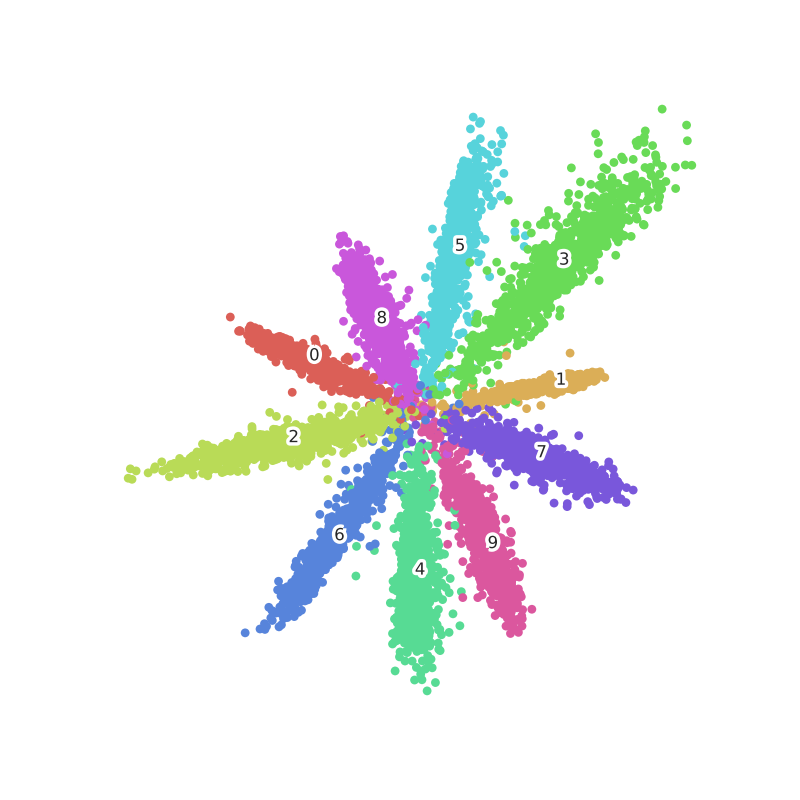
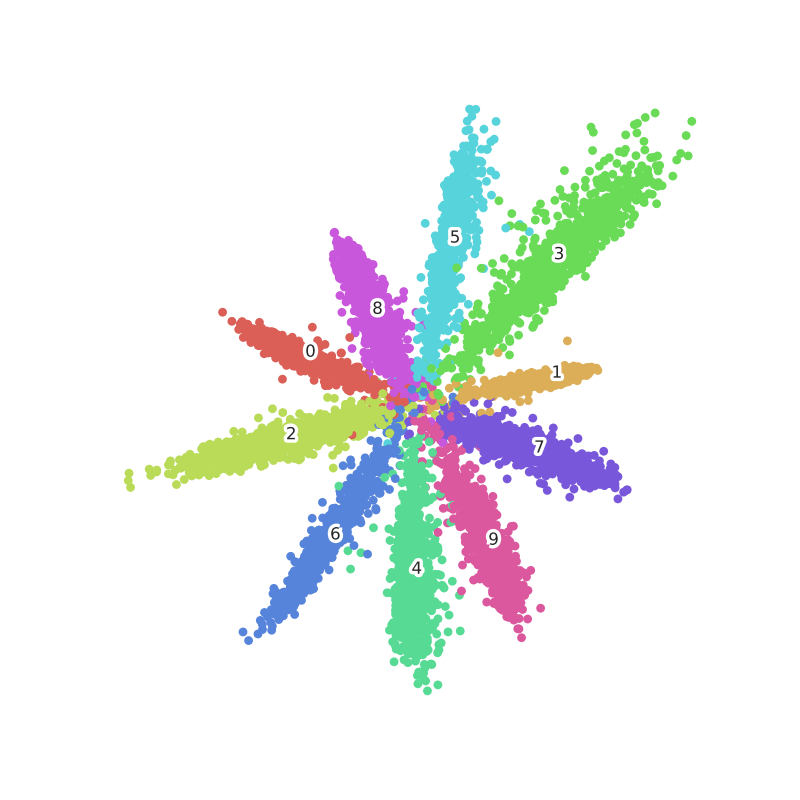
Squashed commit of the following:
commit e763085140482decceb2ecf2ef31b8f215b4f23e
Author: zhangjie <luoyetx@gmail.com>
Date:   Thu Jan 5 22:32:18 2017 +0800

    update README.md

commit 3a027a58bb9198df589f4040a772160b2aab1b1a
Author: zhangjie <luoyetx@gmail.com>
Date:   Thu Jan 5 21:10:08 2017 +0800

    update

    - skip large margin fully connected during test
    - add train.sh
    - update imgs trained by train.sh

commit 0c5b471f20e5b7905e37cbd21253504130c7a8d6
Author: zhangjie <luoyetx@gmail.com>
Date:   Wed Jan 4 20:24:38 2017 +0800

    change `beta` and add `scale` as described in #1

Changed region(s): [[0.25, 0.125, 0.875, 0.875], [0.2812, 0.6875, 0.4062, 0.8125], [0.1562, 0.5625, 0.25, 0.625]]

diff --git a/lsoftmax.py b/lsoftmax.py
@@ -12,9 +12,10 @@ class LSoftmaxOp(mx.operator.CustomOp):
     '''LSoftmax from <Large-Margin Softmax Loss for Convolutional Neural Networks>
     '''
 
-    def __init__(self, margin, beta):
+    def __init__(self, margin, beta, scale):
         self.margin = int(margin)
         self.beta = float(beta)
+        self.scale = float(scale)
         self.c_map = []
         self.k_map = []
         c_m_n = lambda m, n: math.factorial(n) / math.factorial(m) / math.factorial(n-m)
@@ -54,21 +55,22 @@ class LSoftmaxOp(mx.operator.CustomOp):
         label = label.asnumpy()
         # original fully connected
         out = x.dot(w.T)
-        # large margin fully connected
-        n = label.shape[0]
-        w_norm = np.linalg.norm(w, axis=1)
-        x_norm = np.linalg.norm(x, axis=1)
-        for i in range(n):
-            j = yi = int(label[i])
-            f = out[i, yi]
-            cos_t = f / (w_norm[yi] * x_norm[i])
-            # calc k and cos_mt
-            k = self.find_k(cos_t)
-            cos_mt = self.calc_cos_mt(cos_t)
-            # f_i_j = (\beta * f_i_j + fo_i_j) / (1 + \beta)
-            fo_i_j = f
-            f_i_j = (pow(-1, k) * cos_mt - 2*k) * (w_norm[yi] * x_norm[i])
-            out[i, yi] = (self.beta * f_i_j + fo_i_j) / (1 + self.beta)
+        if is_train:
+            # large margin fully connected
+            n = label.shape[0]
+            w_norm = np.linalg.norm(w, axis=1)
+            x_norm = np.linalg.norm(x, axis=1)
+            for i in range(n):
+                j = yi = int(label[i])
+                f = out[i, yi]
+                cos_t = f / (w_norm[yi] * x_norm[i])
+                # calc k and cos_mt
+                k = self.find_k(cos_t)
+                cos_mt = self.calc_cos_mt(cos_t)
+                # f_i_j = (\beta * f_i_j + fo_i_j) / (1 + \beta)
+                fo_i_j = f
+                f_i_j = (pow(-1, k) * cos_mt - 2*k) * (w_norm[yi] * x_norm[i])
+                out[i, yi] = (f_i_j + self.beta * fo_i_j) / (1 + self.beta)
         self.assign(out_data[0], req[0], mx.nd.array(out))
 
     def backward(self, req, out_grad, in_data, out_data, in_grad, aux):
@@ -119,7 +121,7 @@ class LSoftmaxOp(mx.operator.CustomOp):
                                 (margin-2*p)*pow(cos_t[i], margin-2*p-1)*pow(sin2_t[i], p)*dcos_dx)
             df_dx = (pow(-1, k[i]) * cos_mt[i] - 2*k[i]) * w_norm[yi] / x_norm[i] * x[i] + \
                      pow(-1, k[i]) * w_norm[yi] * x_norm[i] * dcosm_dx
-            alpha = self.beta / (1 + self.beta)
+            alpha = 1 / (1 + self.beta)
             x_grad[i] += alpha * o_grad[i, yi] * (df_dx - w[yi])
         # gradient w.r.t. w_j
         for j in range(m):
@@ -140,20 +142,23 @@ class LSoftmaxOp(mx.operator.CustomOp):
                     df_dw_j = (pow(-1, k[i]) * cos_mt[i] - 2*k[i]) * x_norm[i] / w_norm[yi] * w[yi] + \
                                pow(-1, k[i]) * w_norm[yi] * x_norm[i] * dcosm_dw
                     dw += o_grad[i, yi] * (df_dw_j - x[i])
-            alpha = self.beta / (1 + self.beta)
+            alpha = 1 / (1 + self.beta)
             w_grad[j] += alpha * dw
         self.assign(in_grad[0], req[0], mx.nd.array(x_grad))
         self.assign(in_grad[2], req[2], mx.nd.array(w_grad))
+        # dirty hack, should also work for multi devices
+        self.beta *= self.scale
 
 
 @mx.operator.register("LSoftmax")
 class LSoftmaxProp(mx.operator.CustomOpProp):
 
-    def __init__(self, num_hidden, beta, margin):
+    def __init__(self, num_hidden, beta, margin, scale=1):
         super(LSoftmaxProp, self).__init__(need_top_grad=True)
         self.margin = int(margin)
         self.num_hidden = int(num_hidden)
         self.beta = float(beta)
+        self.scale = float(scale)
 
     def list_arguments(self):
         return ['data', 'label', 'weight']
@@ -172,7 +177,7 @@ class LSoftmaxProp(mx.operator.CustomOpProp):
         return [dshape, lshape, wshape], [oshape,], []
 
     def create_operator(self, ctx, shapes, dtypes):
-        return LSoftmaxOp(margin=self.margin, beta=self.beta)
+        return LSoftmaxOp(margin=self.margin, beta=self.beta, scale=self.scale)
 
 
 def test_op():
@@ -193,11 +198,12 @@ def test_op():
 
     if cmd_args.op_impl == 'py':
         symbol = mx.sym.Custom(data=data, label=label, weight=weight, num_hidden=10,
-                               beta=cmd_args.beta, margin=cmd_args.margin,
+                               beta=cmd_args.beta, margin=cmd_args.margin, scale=cmd_args.scale,
                                op_type='LSoftmax', name='lsoftmax')
     else:
         symbol = mx.sym.LSoftmax(data=data, label=label, weight=weight, num_hidden=num_classes,
-                                 margin=cmd_args.margin, beta=cmd_args.beta, name='lsoftmax')
+                                 margin=cmd_args.margin, beta=cmd_args.beta, scale=cmd_args.scale,
+                                 name='lsoftmax')
 
     data_shape = (batch_size, embedding_dim)
     label_shape = (batch_size,)
@@ -276,6 +282,7 @@ if __name__ == '__main__':
     parser.add_argument('--embedding-dim', type=int, default=3, help="test embedding dimension")
     parser.add_argument('--margin', type=int, default=2, help="test lsoftmax margin")
     parser.add_argument('--beta', type=float, default=10, help="test lsoftmax beta")
+    parser.add_argument('--scale', type=float, default=1, help="beta scale of every mini-batch")
     parser.add_argument('--op-impl', type=str, choices=['py', 'cpp'], default='py', help="test op implementation")
     cmd_args = parser.parse_args()
     print cmd_args

diff --git a/operator/lsoftmax-inl.h b/operator/lsoftmax-inl.h
@@ -28,14 +28,20 @@ enum LSoftmaxResource {kTempSpace};
 struct LSoftmaxParam : public dmlc::Parameter<LSoftmaxParam> {
   int margin;
   float beta;
+  float scale;
   int num_hidden;
+  bool verbose;
   DMLC_DECLARE_PARAMETER(LSoftmaxParam) {
     DMLC_DECLARE_FIELD(margin).set_default(2).set_lower_bound(1)
     .describe("LSoftmax margin");
     DMLC_DECLARE_FIELD(beta).set_default(1).set_lower_bound(0)
-    .describe("LSoftmax beta");
+    .describe("LSoftmax beta, same as lambda to weight original value");
+    DMLC_DECLARE_FIELD(scale).set_default(1).set_range(0, 1)
+    .describe("beta scale during training for every mini-batch");
     DMLC_DECLARE_FIELD(num_hidden).set_lower_bound(1)
     .describe("Number of hidden nodes of the output");
+    DMLC_DECLARE_FIELD(verbose).set_default(false)
+    .describe("Log for beta change");
   }
 };
 
@@ -57,6 +63,7 @@ class LSoftmaxOp : public Operator {
       k_table_.push_back(std::cos(i * pi / margin));
       c_table_.push_back(factor);
     }
+    next_beta_ = param.beta * 0.1f;
   }
 
   virtual void Forward(const OpContext &ctx,
@@ -87,22 +94,24 @@ class LSoftmaxOp : public Operator {
 #endif
     // original fully connected
     out = dot(x, w.T());
-    // large margin fully connected
-    const int margin = param_.margin;
-    const DType beta = static_cast<DType>(param_.beta);
-    Tensor<cpu, 1, DType> k_table_cpu(k_table_.data(), Shape1(k_table_.size()));
-    Tensor<cpu, 1, DType> c_table_cpu(c_table_.data(), Shape1(c_table_.size()));
-    Tensor<xpu, 1, DType> k_table_xpu(Shape1(k_table_.size()));
-    Tensor<xpu, 1, DType> c_table_xpu(Shape1(c_table_.size()));
-    k_table_xpu.set_stream(s);
-    c_table_xpu.set_stream(s);
-    AllocSpace(&k_table_xpu);
-    AllocSpace(&c_table_xpu);
-    Copy(k_table_xpu, k_table_cpu, s);
-    Copy(c_table_xpu, c_table_cpu, s);
-    LSoftmaxForward(x, w, label, out, x_norm, w_norm, k_table_xpu, c_table_xpu, margin, beta);
-    FreeSpace(&k_table_xpu);
-    FreeSpace(&c_table_xpu);
+    if (ctx.is_train) {
+      // large margin fully connected
+      const int margin = param_.margin;
+      const DType beta = static_cast<DType>(param_.beta);
+      Tensor<cpu, 1, DType> k_table_cpu(k_table_.data(), Shape1(k_table_.size()));
+      Tensor<cpu, 1, DType> c_table_cpu(c_table_.data(), Shape1(c_table_.size()));
+      Tensor<xpu, 1, DType> k_table_xpu(Shape1(k_table_.size()));
+      Tensor<xpu, 1, DType> c_table_xpu(Shape1(c_table_.size()));
+      k_table_xpu.set_stream(s);
+      c_table_xpu.set_stream(s);
+      AllocSpace(&k_table_xpu);
+      AllocSpace(&c_table_xpu);
+      Copy(k_table_xpu, k_table_cpu, s);
+      Copy(c_table_xpu, c_table_cpu, s);
+      LSoftmaxForward(x, w, label, out, x_norm, w_norm, k_table_xpu, c_table_xpu, margin, beta);
+      FreeSpace(&k_table_xpu);
+      FreeSpace(&c_table_xpu);
+    }
   }
 
   virtual void Backward(const OpContext &ctx,
@@ -158,6 +167,14 @@ class LSoftmaxOp : public Operator {
                      k_table_xpu, c_table_xpu, margin, beta);
     FreeSpace(&k_table_xpu);
     FreeSpace(&c_table_xpu);
+    // dirty hack, should also work for multi device
+    param_.beta *= param_.scale;
+    if (param_.beta < next_beta_) {
+      next_beta_ *= 0.1f;
+      if (param_.verbose) {
+        LOG(INFO) << "LSoftmax changes beta to " << param_.beta;
+      }
+    }
   }
 
  private:
@@ -165,6 +182,7 @@ class LSoftmaxOp : public Operator {
   // global lookup table
   std::vector<DType> k_table_;
   std::vector<DType> c_table_;
+  float next_beta_;
 };  // class LSoftmaxOp
 
 template<typename xpu>

diff --git a/mnist.py b/mnist.py
@@ -35,10 +35,12 @@ def get_symbol():
     if not args.no_lsoftmax:
         if args.op_impl == 'cpp':
             fc4 = mx.sym.LSoftmax(data=embedding, label=label, num_hidden=10,
-                                  beta=args.beta, margin=args.margin)
+                                  beta=args.beta, margin=args.margin, scale=args.scale,
+                                  verbose=True)
         else:
             fc4 = mx.sym.Custom(data=embedding, label=label, num_hidden=10,
-                                beta=args.beta, margin=args.margin, op_type='LSoftmax')
+                                beta=args.beta, margin=args.margin, scale=args.scale,
+                                op_type='LSoftmax')
     else:
         fc4 = mx.sym.FullyConnected(data=embedding, num_hidden=10, no_bias=True)
     softmax_loss = mx.sym.SoftmaxOutput(data=fc4, label=label)
@@ -176,7 +178,8 @@ if __name__ == '__main__':
     parser = argparse.ArgumentParser()
     parser.add_argument('--gpu', type=int, default=-1, help="gpu device")
     parser.add_argument('--lr', type=float, default=0.01, help="learning rate")
-    parser.add_argument('--beta', type=float, default=1, help="beta in lsoftmax")
+    parser.add_argument('--beta', type=float, default=1, help="beta in lsoftmax, same as lambda")
+    parser.add_argument('--scale', type=float, default=1, help="beta scale for every mini-batch")
     parser.add_argument('--batch-size', type=int, default=128, help="batch size")
     parser.add_argument('--train', action='store_true', help="train mnist")
     parser.add_argument('--test', action='store_true', help="test mnist and plot")

diff --git a/README.md b/README.md
@@ -7,7 +7,7 @@ mxnet version of [Large-Margin Softmax Loss for Convolutional Neural Networks][l
 
 I put all formula I used to calculate the derivatives below. You can check it by yourself. If there's a mistake, please do tell me or open an issue.
 
-The derivatives doesn't include `lambda` in the paper, but the code does. Instead of using `lambda` to weight the original `f_i_yi = |w_yi||x_i|cos(t)`, the code uses `beta` to weight the newly calculated `f_i_yi = |w_yi||x_i|cos(mt)`. Therefore, if you want to set `lambda = 0.1`, you should set `beta = 10`.
+The derivatives doesn't include `lambda` in the paper, but the code does. Instead of using `lambda` to weight the original `f_i_yi = |w_yi||x_i|cos(t)`, the code uses `beta` because lambda is a keyword for Python, but `beta` plays exactly the same role as `lambda`.
 
 ![formula](imgs/formula.jpg)
 
@@ -30,15 +30,15 @@ I implement the operator both in Python and C++(CUDA). The performance below is 
 
 ![lsoftmax-margin-1](imgs/mnist-lsoftmax-margin-1.png)
 
-### lsoftmax with margin = 2 and beta = 1
+### lsoftmax with margin = 2, beta = 100 and scale = 0.99
 
 ![lsoftmax-margin-2](imgs/mnist-lsoftmax-margin-2.png)
 
-### lsoftmax with margin = 3 and beta = 1
+### lsoftmax with margin = 3, beta = 100 and scale = 0.99
 
 ![lsoftmax-margin-3](imgs/mnist-lsoftmax-margin-3.png)
 
-### lsoftmax with margin = 4 and beta = 1
+### lsoftmax with margin = 4, beta = 100 and scale = 0.99
 
 ![lsoftmax-margin-4](imgs/mnist-lsoftmax-margin-4.png)
 
